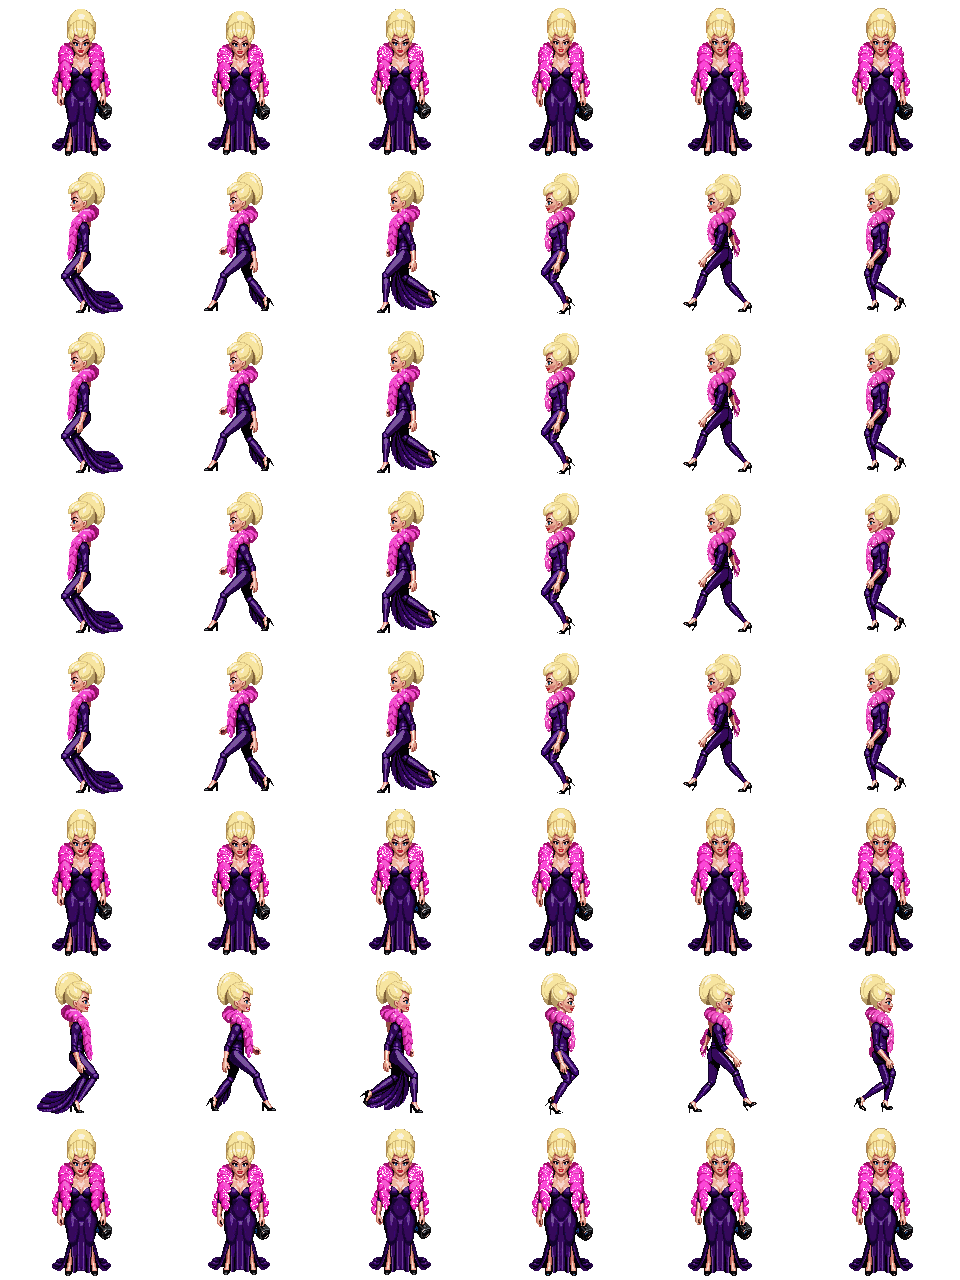
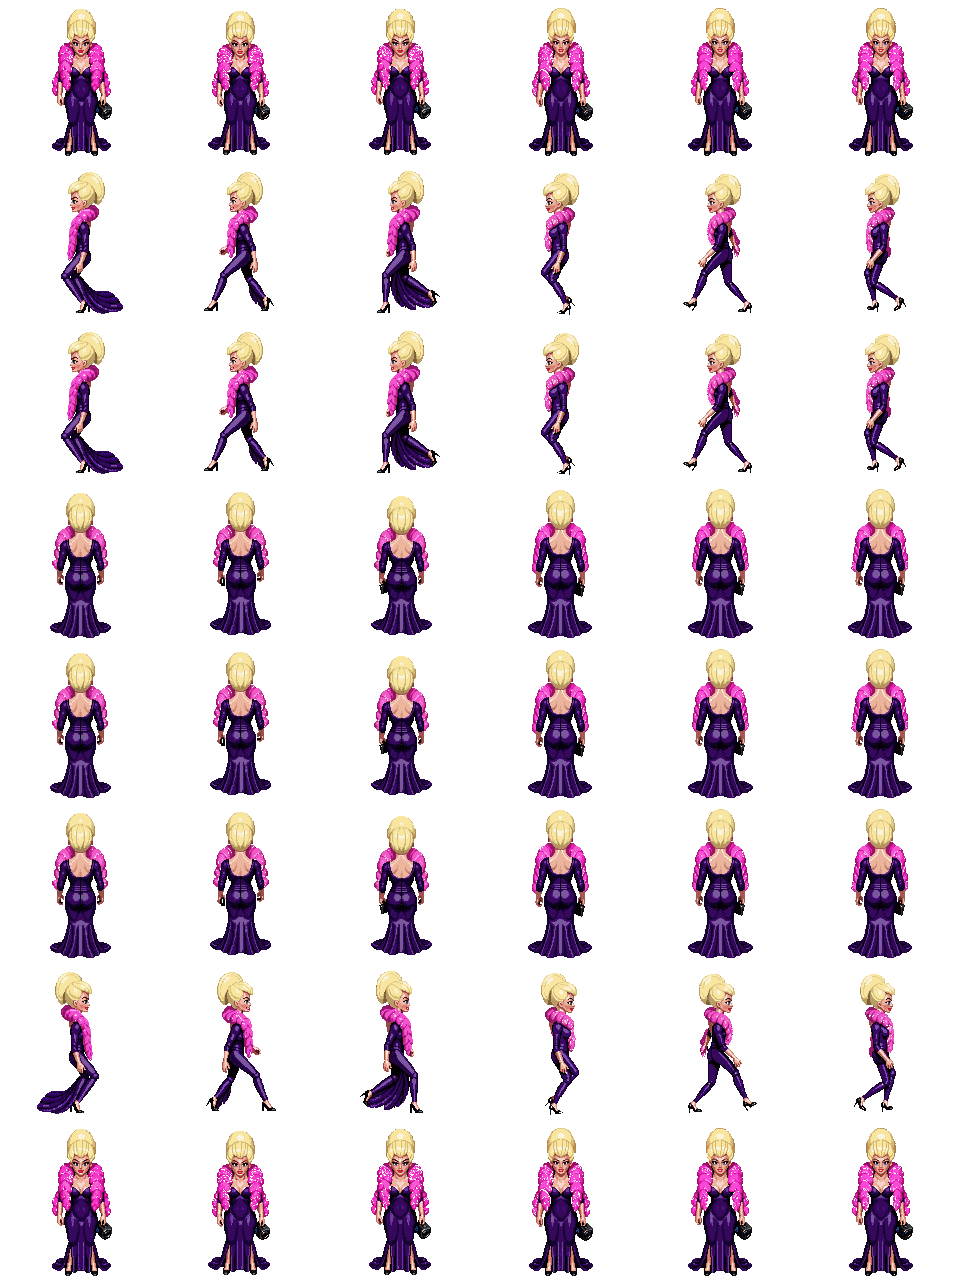
art(districts): re-roll the Queen's north walk, the Poodle's south run, a feral Mr. Whiskers
PixelLab dropped two directions in round 50 (each borrowed a neighbour);
both are regenerated. Mr. Whiskers is a new character, best of three: a
hunched, snarling cat that keeps his collar and bow tie.

diff --git a/docs/neon-overhaul/README.md b/docs/neon-overhaul/README.md
@@ -1274,3 +1274,13 @@ music. Boss wings never change, and regular wings draw exactly as before.
 - **To add a district**: a `DISTRICTS` entry (names, two stores, monster,
   mini-boss), its stores and stock, a twist each, a monster update, a boss
   config, then the game tables tsc lists (sprites, HUD, PA, looks, music).
+
+## Round 51: art re-rolls
+
+- The Glamour Queen's north walk and the Rabid Poodle's south run (dropped by
+  PixelLab's GPU in round 50, so they borrowed a neighbour) are re-generated
+  into their animation groups and re-packed.
+- Mr. Whiskers is a new PixelLab character (`aaf35aa7-...`, cat template,
+  best of three: a lion-template candidate lost its bow tie, a third had no
+  legs): hunched, snarling, claws out, collar and bow tie kept. Walk on three
+  directions; death by `quadruped_death.py` as before.

diff --git a/TEST_EVIDENCE.md b/TEST_EVIDENCE.md
@@ -1,5 +1,16 @@
 # Test evidence
 
+## 2026-10-01 — round 51: art re-rolls
+
+- Re-generated the Glamour Queen's north walk and the Poodle's south run
+  (both packed sheets now have three real directions), and a feral Mr.
+  Whiskers (best of three PixelLab candidates; the lion-template one lost
+  the bow tie, the third had no legs).
+- `npx tsc --noEmit` clean; `npx vitest run` 1141 passed (the sheets-on-disk
+  test included); build clean.
+- On screen (`?fixture=mvp-district&floor=3&room=security_office`): the new
+  Mr. Whiskers slamming in The Aviary under its MR. WHISKERS bar.
+
 ## 2026-10-01 — round 50: the mall districts
 
 - New tests, each run red first: `districts` (5: the roll, rooms/stores/

diff --git a/NEXT_SESSION.md b/NEXT_SESSION.md
@@ -60,9 +60,8 @@ The queue as asked:
 - Monsters: is the Elf's ring readable, the Spritzer's cloud annoying, the
   Poodle's dash fair, the Goon's slapshot dodgeable?
 - Store twists: do you use the sample bowl, the buzzers, the punch card?
-- Art to redo: the Glamour Queen's north walk and the Poodle's south run
-  (PixelLab dropped them; each borrows a neighbour), and Mr. Whiskers reads
-  cute rather than feral.
+- Round 51 re-rolled the Queen's north walk, the Poodle's south run and a
+  feral Mr. Whiskers. Does he read as a boss now?
 
 ## Round 49 playtest questions
 
